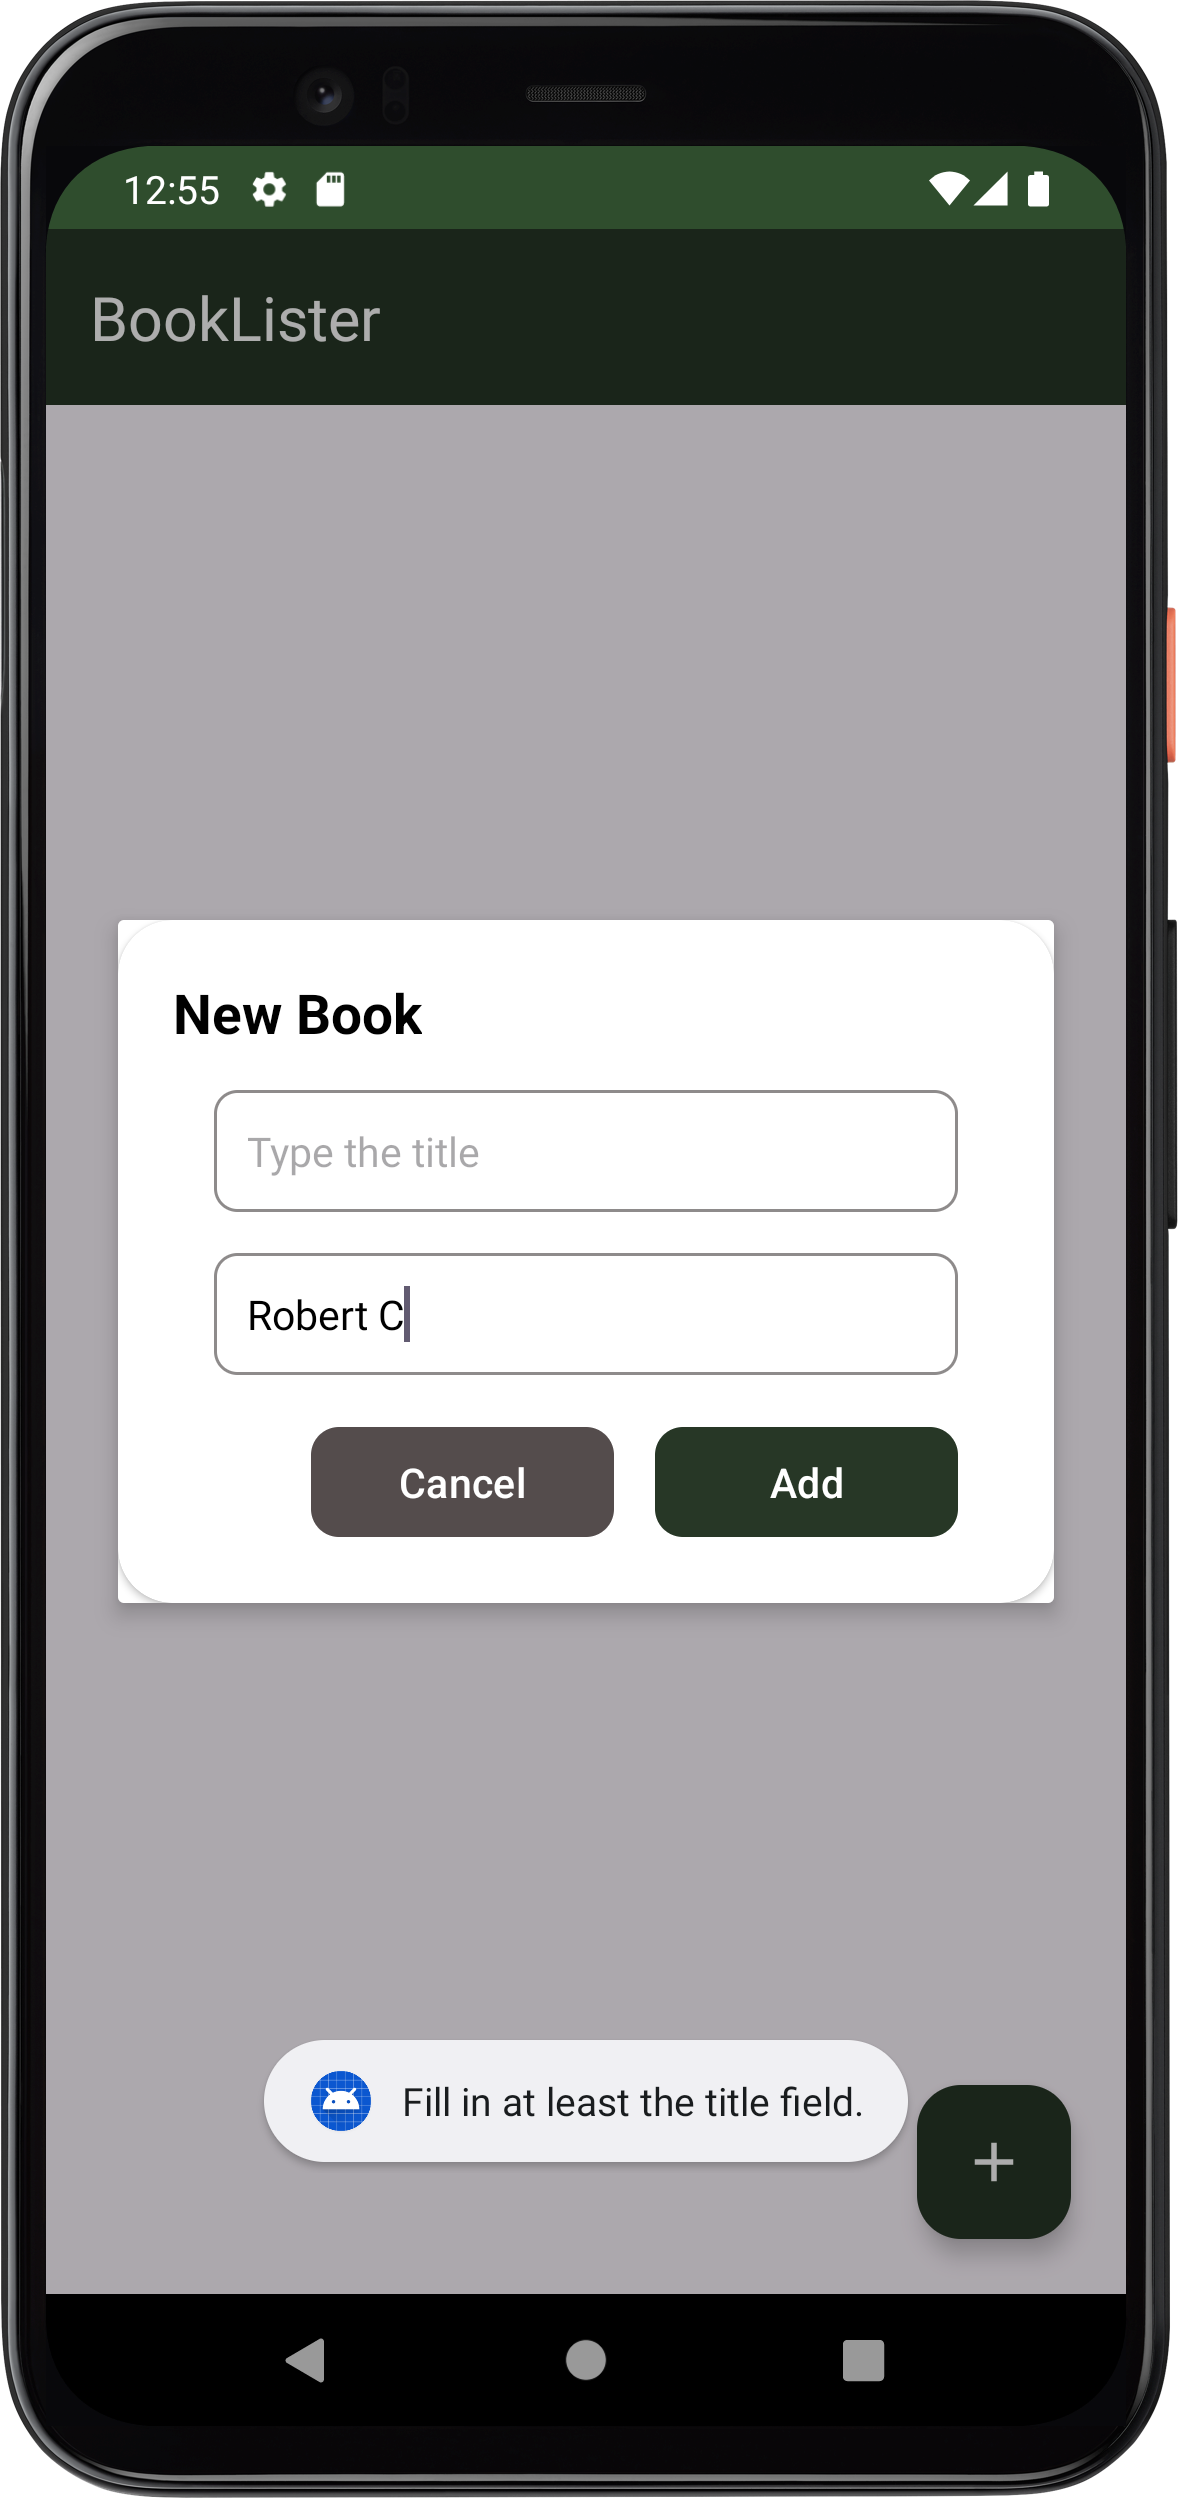
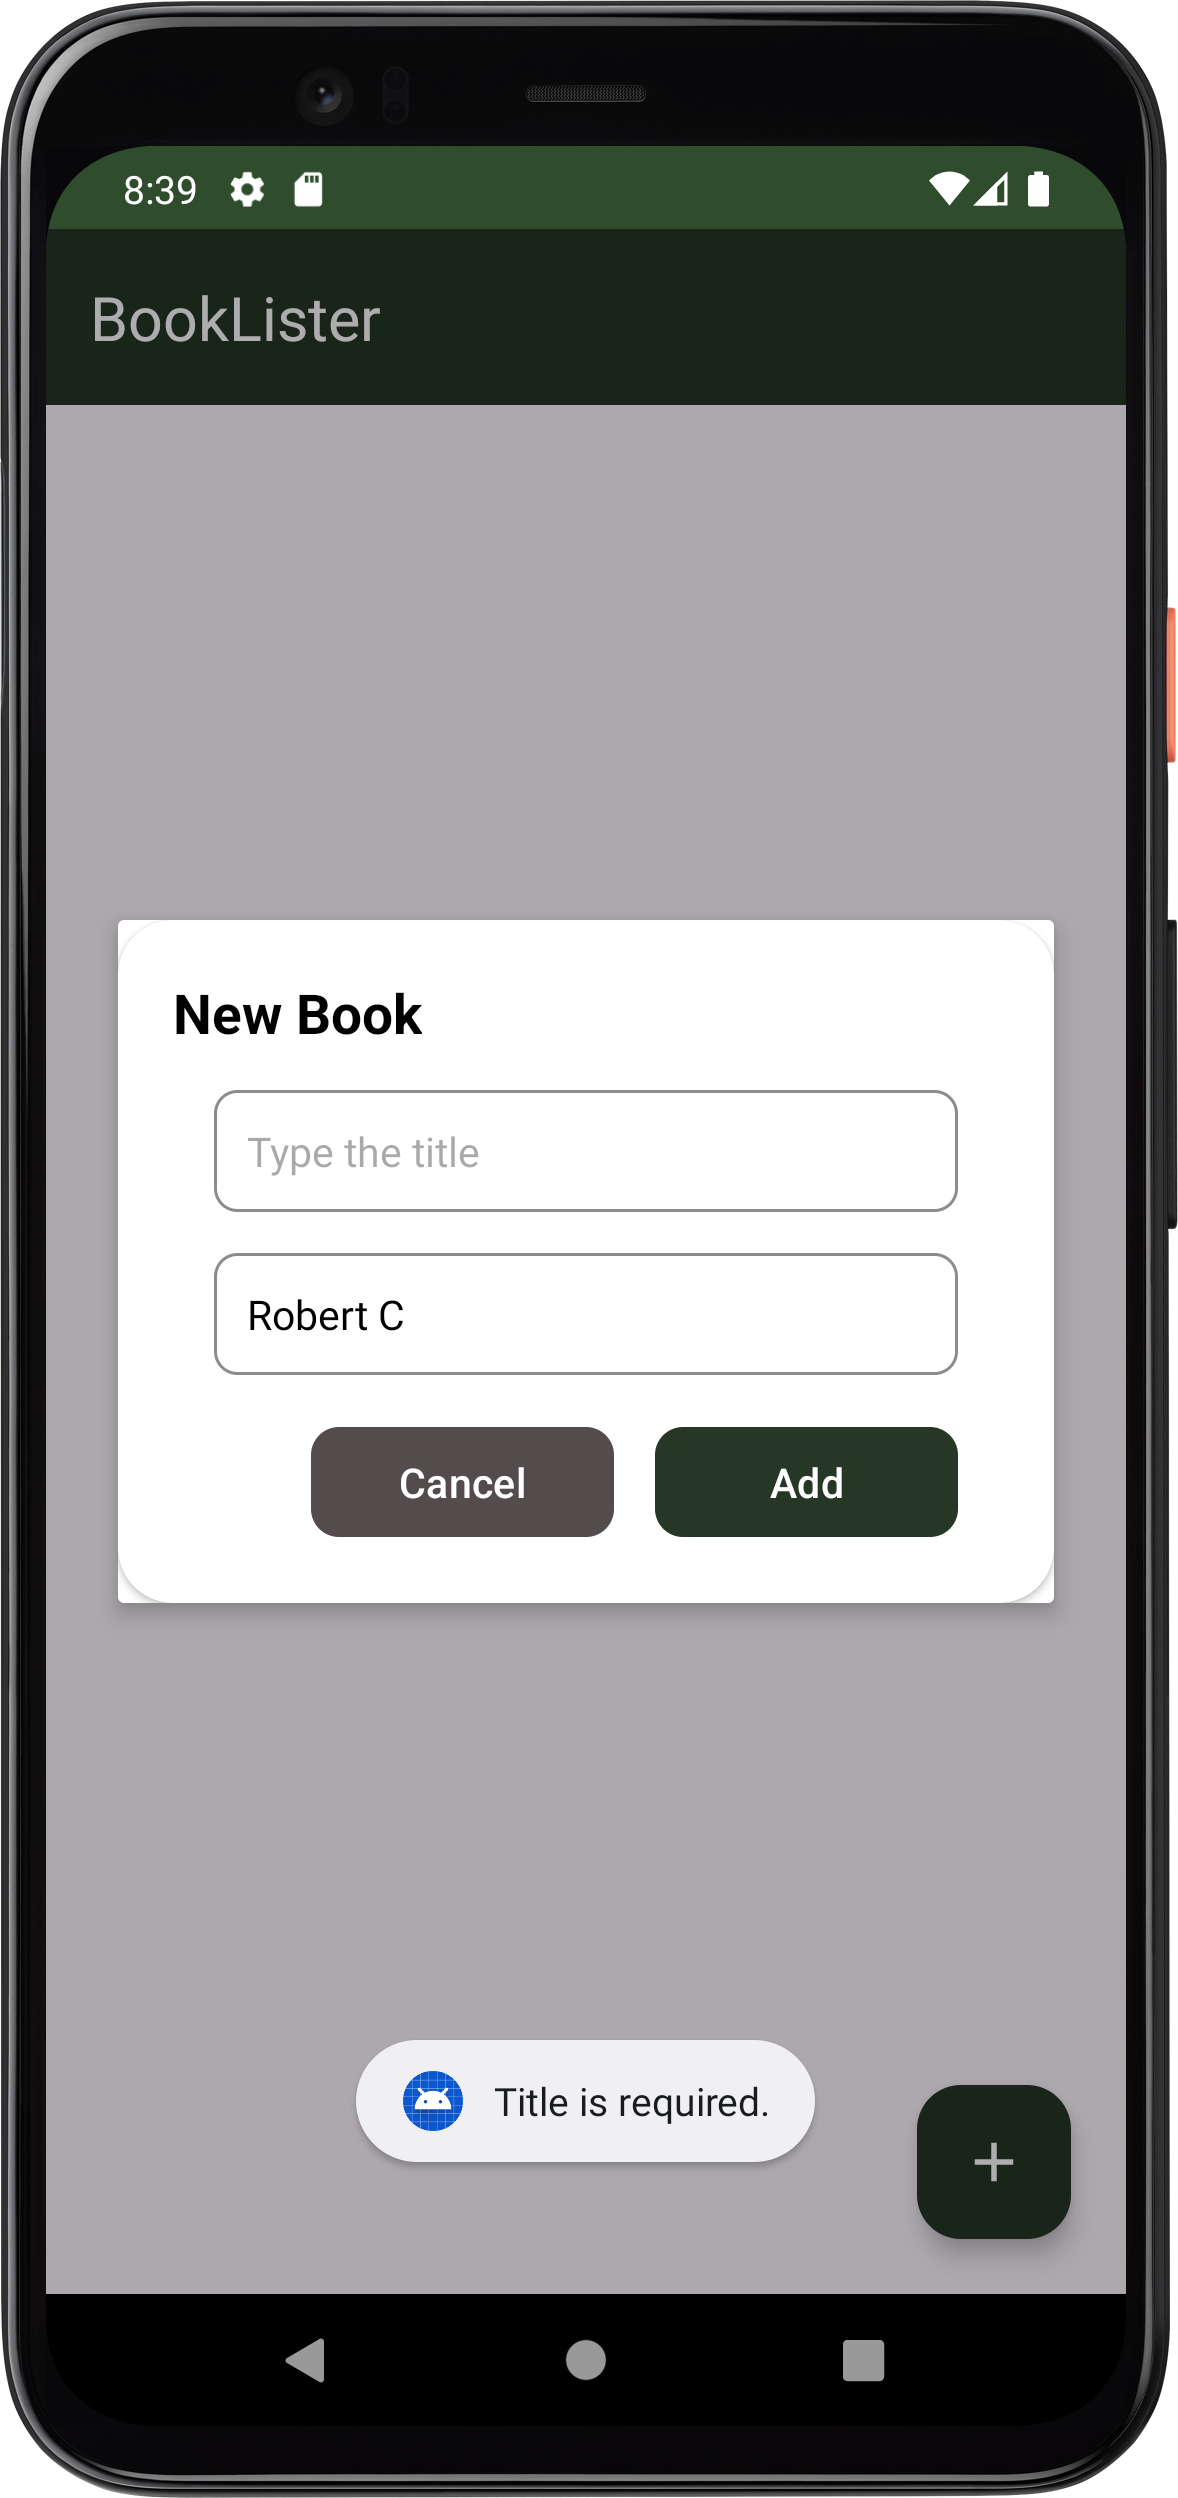
feat: add, edit, and remove books with swipe funcionality

diff --git a/app/src/main/java/com/example/booklister/MainActivity.kt b/app/src/main/java/com/example/booklister/MainActivity.kt
@@ -54,7 +54,7 @@ class MainActivity : AppCompatActivity() {
                     dialog.dismiss()
                 } else {
                     Toast.makeText(
-                        this, "Title is required.",
+                        this, "Title is required",
                         Toast.LENGTH_LONG
                     ).show()
                 }
